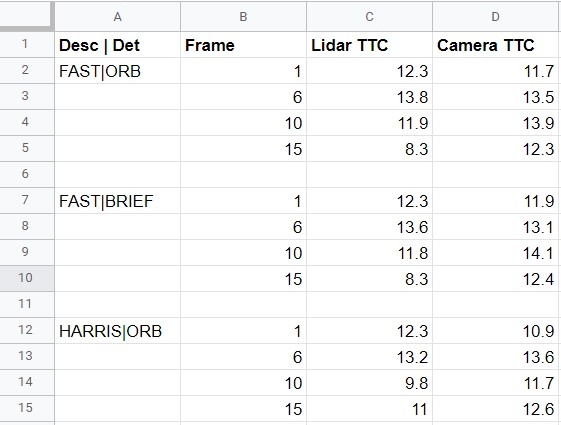
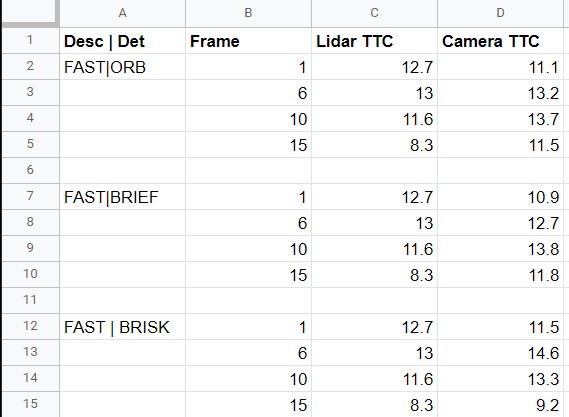
updated write up

diff --git a/README.md b/README.md
@@ -12,12 +12,12 @@ Here we loop through all keypoint matches and add the match to boundingBox if th
 Here we compute the camera TTC. This is done using the code already provided earlier in the section. It does this using the equation TTC = (-1.0 / frameRate) / (1 - medianDistRatio).
 
 #### FP.5 Performance Evaluation 1:
-The most aggregious TTC error (while using the best combination as determined in the midterm - FAST/ORB) is in frame 5 where theTTC for the camera jumped to 60 seconds, then returned to normal values in the next frame. This could be due to outliers in the keypoints or too large of a ROI as there seem to be several keypoints outside the car.Another example is in frame 2 using FAST|BRISK where the camera TTC is -14 seconds followed by 56 seconds. As far as the lidar TTC, there do not seem to be any significant outliers. It was consistantly around 13 seconds until the distance shrunk and the TTC was reduced to around 8 seconds. Since the average of the lidar points was taken, this might be avoiding outliers in the data that would be in ther eotherwise. 
+The highest TTC error (while using the best combination as determined in the midterm - FAST/ORB) is in frame 5 where theTTC for the camera jumped to 25 seconds, then returned to normal values in the next frame. This could be due to outliers in the keypoints or too large of a ROI as there seem to be several keypoints outside the car. Another example is in frame 4 using FAST|BRISK where the camera TTC is 43 seconds. As far as the lidar TTC, there do not seem to be any significant outliers. It was consistantly around 13 seconds until the distance shrunk and the TTC was reduced to around 8 seconds. Since the average of the lidar points was taken, this might be avoiding outliers in the data that would be in ther eotherwise. 
 
-#### FP.6 Performance Evaluation 2
-Intially I tested the following combinations: ORB FAST, BRIEF FAST, BRISK FAST. For the first two, with the exception of a frame or two, the camera performed relativaly well. When BRISK was used, the camera performed poorly. Several frames had -inf or other negative values. So for the three combinations that were tested, HARRIS ORB was used in place of BRISK FAST.
+#### FP.6 Performance Evaluation 2:
+The combinations of FAST|ORB, FAST|BRIEF, FAST | BRISK were tested. Around the 5th frame, the model tends to over esitmate the TTC. But by the next frame, it is back to normal. This can be seen when compared to the lidar TTC which remains consistent. This might be an error caused by too many keypoints.
 
-<img src="images/final camera spreadsheet.jpg" width="561" height="425" />
+<img src="images/final camera spreadsheet.jpg" width="569" height="417" />
 
 
 # SFND 3D Object Tracking
